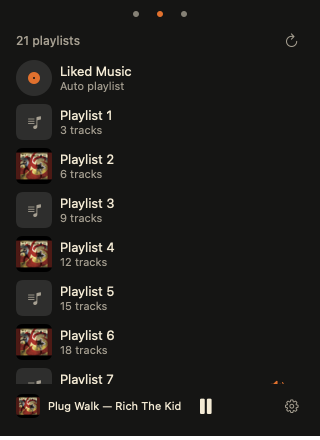
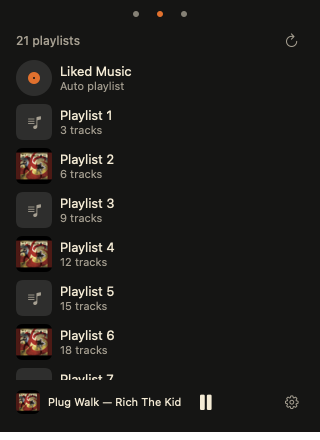
Glass for the control layer; Reduce Motion cross-fade
Page dots, the transport capsule, the speaker and the gear sit on glass:
glassEffect on macOS 26 and later, the system material before that, and
surface with a control-border outline under Reduce Transparency. With
Reduce Motion on, pages cross-fade instead of sliding.

diff --git a/Sources/BSide/Views/PlayerWindow.swift b/Sources/BSide/Views/PlayerWindow.swift
@@ -9,6 +9,7 @@ struct PlayerWindow: View {
     /// The hidden title bar still counts as a safe area at the top. The
     /// content goes under it, and the window must not grow by its height.
     @State private var topInset = Theme.Size.titleBar
+    @Environment(\.accessibilityReduceMotion) private var reduceMotion
 
     var body: some View {
         VStack(spacing: 0) {
@@ -27,21 +28,31 @@ struct PlayerWindow: View {
         .task { player.start() }
     }
 
+    @ViewBuilder
+    private var pages: some View {
+        if reduceMotion {
+            // Nothing slides: the current page fades in over the previous
+            // one. Dots and Command-1, 2, 3 change pages; the swipe does not.
+            ZStack {
+                page(navigation.page ?? .vibe)
+                    .id(navigation.page ?? .vibe)
+                    .transition(.opacity)
+            }
+            .animation(.easeInOut(duration: Theme.Motion.page), value: navigation.page)
+        } else {
+            pager
+        }
+    }
+
     /// A paging scroll view gives the two-finger swipe, and the page follows
     /// the finger, with no custom gesture code.
-    private var pages: some View {
+    private var pager: some View {
         ScrollView(.horizontal) {
             HStack(spacing: 0) {
-                ForEach(Page.allCases) { page in
-                    Group {
-                        switch page {
-                        case .vibe: VibePage()
-                        case .playlists: PlaylistsPage()
-                        case .nowPlaying: NowPlayingPage()
-                        }
-                    }
-                    .frame(width: Theme.Size.window.width)
-                    .id(page)
+                ForEach(Page.allCases) { item in
+                    page(item)
+                        .frame(width: Theme.Size.window.width)
+                        .id(item)
                 }
             }
             .scrollTargetLayout()
@@ -50,6 +61,15 @@ struct PlayerWindow: View {
         .scrollPosition(id: $navigation.page)
         .scrollIndicators(.never)
         .animation(.spring(duration: Theme.Motion.page, bounce: 0), value: navigation.page)
+    }
+
+    @ViewBuilder
+    private func page(_ page: Page) -> some View {
+        switch page {
+        case .vibe: VibePage()
+        case .playlists: PlaylistsPage()
+        case .nowPlaying: NowPlayingPage()
+        }
     }
 
     /// The strip shows on Vibe and Playlists while something plays; Now
@@ -68,6 +88,7 @@ struct PlayerWindow: View {
             Spacer(minLength: 0)
             SettingsLink {
                 IconButton.Label(symbol: "gearshape")
+                    .glass(in: Circle())
             }
             .buttonStyle(PressableStyle())
             .help("Settings")
@@ -102,6 +123,8 @@ struct PageDots: View {
                 .accessibilityAddTraits(isCurrent(item) ? .isSelected : [])
             }
         }
+        .padding(.horizontal, Theme.Space.xxs)
+        .glass(in: Capsule())
     }
 
     private func isCurrent(_ item: Page) -> Bool {

diff --git a/Sources/BSide/Design/Snapshots.swift b/Sources/BSide/Design/Snapshots.swift
@@ -95,6 +95,9 @@ enum Snapshots {
 
     static func render(into folder: URL) async {
         await renderSettings(into: folder)
+        await renderPage(.nowPlaying, player: .fixture(state: track, source: .mood(Mood.liked.id)),
+                         name: "nowplaying-reduce-transparency", appearance: .aqua, into: folder,
+                         reduceTransparency: true)
         EventLog.write("snapshot: rendering \(cases.count) cases into \(folder.path)")
         try? FileManager.default.createDirectory(at: folder, withIntermediateDirectories: true)
         NSSetUncaughtExceptionHandler { exception in
@@ -137,6 +140,37 @@ enum Snapshots {
                 window.close()
             }
         }
+    }
+
+    /// One page in one appearance, with the accessibility settings given.
+    private static func renderPage(_ page: Page, player: PlayerController, name: String,
+                                   appearance: NSAppearance.Name, into folder: URL,
+                                   reduceTransparency: Bool = false) async {
+        let navigation = Navigation()
+        let window = NSWindow(
+            contentRect: NSRect(origin: .zero, size: Theme.Size.window),
+            styleMask: [.titled, .closable, .miniaturizable, .fullSizeContentView],
+            backing: .buffered, defer: false)
+        window.titlebarAppearsTransparent = true
+        window.titleVisibility = .hidden
+        window.appearance = NSAppearance(named: appearance)
+        window.isReleasedWhenClosed = false
+        let hosting = NSHostingView(rootView: PlayerWindow()
+            .environmentObject(player)
+            .environmentObject(navigation)
+            .environment(\.previewReduceTransparency, reduceTransparency))
+        hosting.sizingOptions = []
+        hosting.frame = NSRect(origin: .zero, size: Theme.Size.window)
+        window.contentView = hosting
+        window.setFrameOrigin(NSPoint(x: -4000, y: -4000))
+        window.orderFrontRegardless()
+        try? await Task.sleep(for: .seconds(0.3))
+        navigation.page = page
+        try? await Task.sleep(for: .seconds(1.5))
+        if let image = capture(window) {
+            try? image.write(to: folder.appendingPathComponent("\(name).png"))
+        }
+        window.close()
     }
 
     private static func capture(_ window: NSWindow) -> Data? {

diff --git a/Sources/BSide/Design/Glass.swift b/Sources/BSide/Design/Glass.swift
@@ -1,0 +1,43 @@
+import SwiftUI
+
+/// The control layer from DESIGN.md: page dots, transport, the speaker and
+/// the gear float on glass. macOS 26 draws real glass; 14 and 15 draw the
+/// system material in the same shape; with Reduce Transparency on, both
+/// become `surface` with a `control-border` outline. Controls that sit
+/// together share one shape; glass never sits on glass.
+struct GlassSurface<S: InsettableShape>: ViewModifier {
+    let shape: S
+    @Environment(\.accessibilityReduceTransparency) private var reduceTransparency
+    @Environment(\.previewReduceTransparency) private var previewReduceTransparency
+
+    func body(content: Content) -> some View {
+        if reduceTransparency || previewReduceTransparency {
+            content.background(
+                shape.fill(Theme.Colors.surface)
+                    .overlay(shape.strokeBorder(Theme.Colors.controlBorder))
+            )
+        } else if #available(macOS 26, *) {
+            content.glassEffect(.regular, in: shape)
+        } else {
+            content.background(.regularMaterial, in: shape)
+        }
+    }
+}
+
+extension View {
+    func glass<S: InsettableShape>(in shape: S) -> some View {
+        modifier(GlassSurface(shape: shape))
+    }
+}
+
+/// Snapshots cannot set the system's Reduce Transparency; this stands in.
+private struct PreviewReduceTransparencyKey: EnvironmentKey {
+    static let defaultValue = false
+}
+
+extension EnvironmentValues {
+    var previewReduceTransparency: Bool {
+        get { self[PreviewReduceTransparencyKey.self] }
+        set { self[PreviewReduceTransparencyKey.self] = newValue }
+    }
+}

diff --git a/Sources/BSide/Views/NowPlayingPage.swift b/Sources/BSide/Views/NowPlayingPage.swift
@@ -107,17 +107,20 @@ struct NowPlayingPage: View {
         }
     }
 
+    /// Previous, Play and Next share one glass capsule; the speaker has its
+    /// own circle on the left. The capsule is centred in the page.
     private var transport: some View {
-        HStack(spacing: Theme.Space.l) {
-            Spacer(minLength: Theme.Size.transportTarget) // keeps the buttons centred with the speaker on the left
+        HStack(spacing: Theme.Space.m) {
             TransportButton(symbol: "backward.fill", label: "Previous") { player.previous() }
             TransportButton(symbol: player.state.isPlaying ? "pause.fill" : "play.fill",
                             label: player.state.isPlaying ? "Pause" : "Play",
                             glyph: Theme.Size.playGlyph) { player.togglePlayPause() }
             TransportButton(symbol: "forward.fill", label: "Next") { player.next() }
                 .disabled(!player.state.hasNext)
-            Spacer(minLength: Theme.Size.transportTarget)
         }
+        .padding(.horizontal, Theme.Space.xs)
+        .padding(.vertical, Theme.Space.xxs)
+        .glass(in: Capsule())
         .frame(maxWidth: .infinity)
         .overlay(alignment: .leading) { volumeButton }
     }
@@ -129,6 +132,8 @@ struct NowPlayingPage: View {
             // it, and toggling would open it again.
             showsVolume = true
         }
+        .padding(Theme.Space.xxs)
+        .glass(in: Circle())
         .help("Volume: \(Int(player.volume))%")
         .accessibilityValue("\(Int(player.volume)) percent")
         .popover(isPresented: $showsVolume, arrowEdge: .top) {

diff --git a/DESIGN.md b/DESIGN.md
@@ -18,9 +18,9 @@ Mockups are made in SwiftUI, not Figma: `-snapshot` renders every page in its
 states, light and dark, into `design/audit/`. Figma keeps the moodboard and
 Foundations only. Screen specs live in [design/SCREENS.md](design/SCREENS.md).
 
-Done: the palette, the theme file, `scripts/check-design.sh`, all three
-pages, the strip, the menu bar item. Not yet: glass, the Reduce Motion
-cross-fade.
+Done: everything below, including glass (`Design/Glass.swift`) and the Reduce
+Motion cross-fade. With Reduce Motion on, pages change by the dots and the
+keyboard only; the swipe is off, since a swipe is a slide.
 
 Moodboard and Foundations: Figma file "B-Side — Design",
 https://www.figma.com/design/jfKJfjHaDpDJle4Dj64MzM

diff --git a/README.md b/README.md
@@ -53,7 +53,8 @@ A 320 by 440 window with three pages, designed as in [DESIGN.md](DESIGN.md).
 | Gear, bottom right | Opens Settings: Account, Playback, Diagnostics |
 
 Move between the pages with a two-finger swipe, the dots at the top, or
-Command-1, Command-2 and Command-3.
+Command-1, Command-2 and Command-3. With Reduce Motion on, pages cross-fade
+and the swipe is off.
 
 | Shortcut | Action |
 |---|---|
